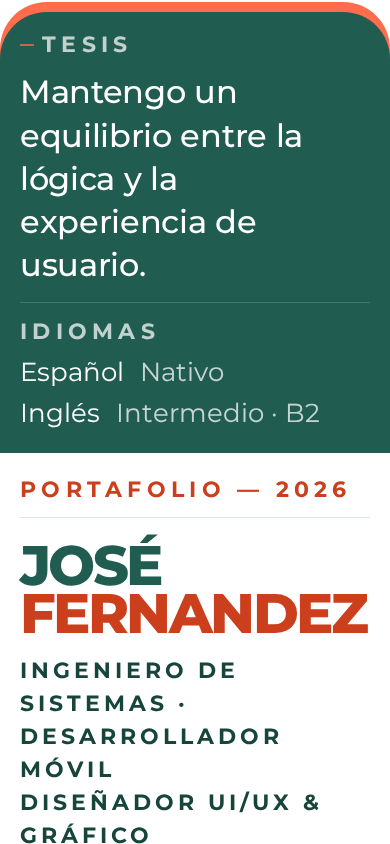
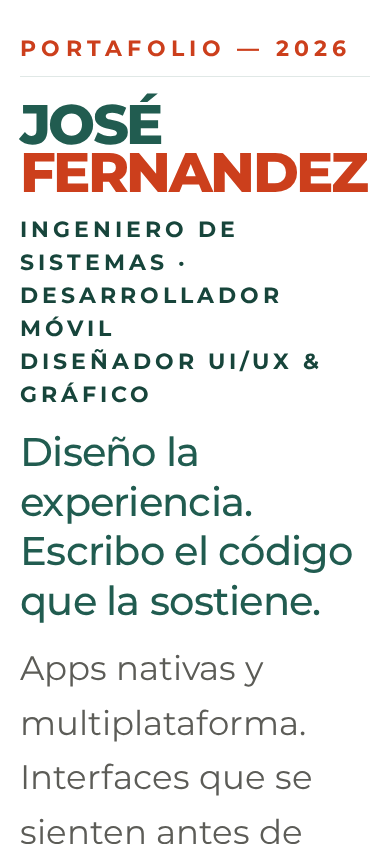
refactor(ui): optimización de experiencia móvil, navegación del stage y accesibilidad WCAG

diff --git a/src/styles/site.css b/src/styles/site.css
@@ -45,6 +45,18 @@ body {
   display: none !important;
 }
 
+.sr-only {
+  position: absolute;
+  width: 1px;
+  height: 1px;
+  padding: 0;
+  margin: -1px;
+  overflow: hidden;
+  clip: rect(0, 0, 0, 0);
+  white-space: nowrap;
+  border-width: 0;
+}
+
 h1,
 h2,
 h3 {
@@ -161,7 +173,8 @@ main:focus,
   padding-block: var(--seccion);
 }
 
-.act--criterion {
+.act--criterion,
+.act--work {
   overflow-x: clip;
 }
 
@@ -1594,7 +1607,7 @@ main:focus,
   min-height: 24px;
   color: var(--mute);
   font-family: var(--mono);
-  font-size: 10px;
+  font-size: var(--t-label);
   letter-spacing: 0.06em;
   line-height: 1;
   text-decoration: none;
@@ -1756,8 +1769,17 @@ main:focus,
     flex: 0 1 auto;
   }
 
+  .hero__main {
+    order: -1;
+    padding: var(--s-6) var(--margen) var(--s-8);
+  }
+
   .hero__panel {
-    min-height: clamp(200px, 27svh, 280px);
+    min-height: clamp(180px, 22svh, 240px);
+    margin-top: var(--rim);
+    margin-inline: var(--margen);
+    margin-bottom: var(--s-8);
+    border-radius: var(--r-panel);
   }
 
   .hero__panel .panel__inner {
@@ -2156,7 +2178,46 @@ main:focus,
 .work-stage__progress { flex: 1; height: 1px; background: var(--linea); overflow: hidden; }
 .work-stage__progress span { display: block; width: 100%; height: 100%; background: var(--coral-700); transform-origin: left center; transform: scaleX(0.1667); }
 .motion .work-stage__dots { display: flex; flex-wrap: wrap; gap: 6px; margin-top: var(--s-3); }
-.work-stage__dot { display: inline-flex; align-items: center; justify-content: center; width: 32px; height: 32px; border: 1px solid var(--linea); border-radius: var(--r-full); background: var(--papel); color: var(--mute); font-family: var(--mono); font-size: 10px; cursor: pointer; }
+.work-stage__dot {
+  position: relative;
+  display: inline-flex;
+  align-items: center;
+  justify-content: center;
+  width: 32px;
+  height: 32px;
+  border: 1px solid var(--linea);
+  border-radius: var(--r-full);
+  background: var(--papel);
+  color: var(--mute);
+  font-family: var(--mono);
+  font-size: var(--t-label);
+  cursor: pointer;
+  transition: border-color var(--e-out), color var(--e-out);
+}
+.work-stage__dot-label {
+  position: absolute;
+  top: calc(100% + 6px);
+  left: 50%;
+  transform: translateX(-50%) translateY(-2px);
+  padding: 3px 8px;
+  background: var(--verde-900);
+  color: var(--papel);
+  font-family: var(--fuente);
+  font-size: 0.6875rem;
+  font-weight: 500;
+  white-space: nowrap;
+  border-radius: 4px;
+  box-shadow: 0 2px 8px rgba(0, 0, 0, 0.12);
+  opacity: 0;
+  pointer-events: none;
+  transition: opacity 0.18s var(--e-out), transform 0.18s var(--e-out);
+  z-index: 10;
+}
+.work-stage__dot:hover .work-stage__dot-label,
+.work-stage__dot:focus-visible .work-stage__dot-label {
+  opacity: 1;
+  transform: translateX(-50%) translateY(0);
+}
 .work-stage__dot[aria-current="true"] { border-color: var(--coral-700); color: var(--coral-700); }
 .work-stage__dot:focus-visible,
 .work-stage__arrow:focus-visible { outline: 2px solid var(--coral-700); outline-offset: 2px; }
@@ -2184,7 +2245,12 @@ main:focus,
   .motion .work-stage__panel .case__cover--image,
   .motion .work-stage__panel .case__image,
   .motion .work-stage__panel .cover { max-height: 32svh; }
-  .motion .work-stage__meter,
+  .motion .work-stage__meter {
+    display: flex;
+    align-items: center;
+    gap: var(--s-3);
+    margin-top: clamp(14px, 3vw, 20px);
+  }
   .motion .work-stage__dots,
   .motion .work-stage__nav { display: none; }
 }
@@ -2236,7 +2302,7 @@ main:focus,
   .act--craft { padding-block: 32px; }
   .craft__head .shead__title { font-size: clamp(1.6rem, 8.5vw, 2rem); }
   .craft__line { margin-top: 8px; }
-  .craft__groups { gap: 6px; margin-top: 18px; }
+  .craft__groups { grid-template-columns: 1fr; gap: 12px; margin-top: 18px; }
 }
 
 

diff --git a/src/scripts/motion.ts b/src/scripts/motion.ts
@@ -90,6 +90,35 @@ stageDots.forEach((dot) => {
   dot.addEventListener("click", () => scrollToStage(Number(dot.dataset.stageTarget ?? 0)));
 });
 
+const stageDeck = document.querySelector<HTMLElement>(".work-stage__deck");
+if (stageDeck) {
+  let deckTicking = false;
+  stageDeck.addEventListener(
+    "scroll",
+    () => {
+      if (!deckTicking) {
+        window.requestAnimationFrame(() => {
+          if (stageNarrow.matches && stagePanels.length > 0) {
+            const firstPanel = stagePanels[0];
+            const panelWidth = (firstPanel ? firstPanel.offsetWidth : 1) + 16;
+            const scrollLeft = stageDeck.scrollLeft;
+            const index = Math.min(
+              stagePanels.length - 1,
+              Math.max(0, Math.round(scrollLeft / panelWidth))
+            );
+            if (stageCurrent) stageCurrent.textContent = String(index + 1).padStart(2, "0");
+            if (stageProgress)
+              stageProgress.style.transform = `scaleX(${(index + 1) / stagePanels.length})`;
+          }
+          deckTicking = false;
+        });
+        deckTicking = true;
+      }
+    },
+    { passive: true }
+  );
+}
+
 let lastActive = -1;
 let frame = 0;
 

diff --git a/src/content/site.ts b/src/content/site.ts
@@ -226,6 +226,7 @@ export const site = {
         skills: [
           "Kotlin 2.0+",
           "Jetpack Compose",
+          "React Native",
           "Material 3",
           "XML",
           "Android SDK 26–36",
@@ -238,7 +239,6 @@ export const site = {
       {
         label: "Web",
         skills: [
-          "React Native",
           "React",
           "JavaScript",
           "HTML",
@@ -303,6 +303,7 @@ export const site = {
     title: "Seis proyectos. Del diseño al código.",
     body: "Seis proyectos construidos: un producto educativo publicado, una app universitaria, sistemas empresariales y soluciones IoT. Lo que sigue es el mapa: categoría, estado y el stack confirmado. Sin métricas que no pueda demostrar.",
     cta: "Pedir el caso completo",
+    ctaConfidential: "Consultar detalles bajo NDA",
     featured: [
       {
         index: "01",

diff --git a/.impeccable/critique/2026-11-07T18-09-32Z__src-pages-index-astro.md b/.impeccable/critique/2026-11-07T18-09-32Z__src-pages-index-astro.md
@@ -1,0 +1,147 @@
+---
+target: src/pages/index.astro
+total_score: 27
+max_score: 32
+na_heuristics: "7,10"
+p0_count: 0
+p1_count: 2
+target_identity: "file:/home/p0xd/Documentos/proyectos/Portfolio/src/pages/index.astro"
+target_fingerprint: "sha256:cc37449d963d029a4666ccf46e644477f453889da6df2b6e2881eaef6a2ab57e"
+target_path: "/home/p0xd/Documentos/proyectos/Portfolio/src/pages/index.astro"
+timestamp: "2026-11-07T18-09-32Z"
+slug: "src-pages-index-astro"
+---
+
+# Crítica General de Diseño: Portafolio de José Fernández
+**Objetivo**: `src/pages/index.astro` · Desplegado en: `https://josealejfer.pages.dev/`  
+**Superficie**: *Experience / Persuade*  
+**Método**: `dual-agent (A: 5fd09605-1767-4923-b39e-6d451fed7024 · B: 96e1c1f7-7f09-41a8-a18b-a04faf3b55c3)`
+
+---
+
+## 1. Design Health Score (Evaluación de las 10 Heurísticas de Nielsen)
+
+| # | Heurística | Puntuación | Hallazgo Clave |
+|---|---|:---:|---|
+| 1 | Visibilidad del estado del sistema | 3 | En desktop, el riel de navegación y la barra de progreso del stage informan la posición con precisión; en móvil (`<=960px` y `<=1199px`), se ocultan riel, contador y barra, dejando la navegación a ciegas. |
+| 2 | Correspondencia entre el sistema y el mundo real | 4 | Tono honesto, sobrio y sin jerga corporativa hueca. Las metáforas espaciales de capas (verde lógica + coral empatía) articulan la identidad con naturalidad. |
+| 3 | Control y libertad del usuario | 3 | Skip-link accesible y navegación por anclas impecables; no obstante, en desktop el stage impone un scroll fijado de 6 pasos sin opción de ver un índice general o desplegar todos los proyectos. |
+| 4 | Consistencia y estándares | 3 | El sistema de diseño es riguroso (tokens estrictos, una sola familia tipográfica), pero existe disparidad en los CTAs de Trabajo: NotiFast tiene 2 botones, Krizo 1, Alcaraván 0 y Monitoreo 1. |
+| 5 | Prevención de errores | 4 | Enlaces externos avisan explícitamente en su nombre accesible que abren pestaña nueva; el botón de email previene desbordes tipográficos con `overflow-wrap: anywhere`. |
+| 6 | Reconocimiento antes que recuerdo | 2 | Los botones del stage son dígitos mudos (`01` a `06`) sin aroma de información (título o logo); el usuario debe memorizar qué número corresponde a qué producto. En Craft, 35 chips sin jerarquizar. |
+| 7 | Flexibilidad y eficiencia de uso | **n/a** | *No aplica*: Portafolio de una sola página en modo *Experience/Persuade*; no requiere atajos complejos de teclado ni personalización de interfaz. |
+| 8 | Diseño estético y minimalista | 4 | Nivel editorial excepcional. Sin gradientes genéricos, sin neones, sin emojis ni saturación ornamental. Cada elemento responde a la tesis del cartel y el duotono. |
+| 9 | Ayuda a reconocer, diagnosticar y recuperarse de errores | 4 | Fallback automático y resiliente: si la API del portapapeles es rechazada o falla, el botón revierte instantáneamente al enlace accesible `mailto:` nativo. |
+| 10 | Ayuda y documentación | **n/a** | *No aplica*: Producto personal autocontenido y autoexplicativo sin flujos transaccionales ni necesidad de centro de ayuda. |
+| **Total** | | **27 / 32** | **GOOD (84.4%)** *(Banda 70%–89%)* |
+
+---
+
+## 2. Veredicto de Especificidad de Diseño (Design Specificity Verdict)
+
+### Evaluación de Diseño (LLM Director): 88% Autoral / 12% Inercia de Categoría
+El portafolio de José Fernández destaca notablemente por encima del promedio del ecosistema de desarrolladores:
+- **No es una plantilla intercambiable**: No recurre a fondos oscuros genéricos con partículas WebGL, ni a tarjetas flotantes de glassmorphism con gradientes violetas.
+- **La metáfora gráfica estructural**: La tensión entre la columna verde (`#215C50`, lógica del Ingeniero de Sistemas) y el ribete coral (`#FF6D4D` / `--coral-700` `#CC3F1C`, empatía del Diseñador UI/UX) es el andamiaje compositivo real.
+- **Identidad tipográfica en el Hero**: Dividir `JOSÉ` (en verde) y `FERNANDEZ` (en coral) traduce la tesis al propio nombre con `cqw`.
+- **Autenticidad de ingeniería**: Proyectos reales de alta complejidad en Venezuela (Zero Trust con geocercas para 200 empleados, firmware ESP32 en C++ y robótica con Arduino CLI/WebSockets para el MinCyT).
+
+**Dónde se desliza hacia la inercia de categoría**:
+- **Acto 03 (Craft)**: Tras una narrativa biográfica potente, el sitio cae repentinamente en un catálogo plano de 35 chips de tecnologías sin jerarquía entre tecnologías nucleares y herramientas secundarias.
+- **Paginación numérica ciega en el Stage**: Los botones `01` a `06` replican un carrusel minimalista abstracto que ignora el aroma de información.
+
+### Escaneo Determinista (Detector Impeccable + Auditorías Mecánicas)
+- **Scan estático**: 0 hallazgos en `index.astro`; 1 advertencia en `src/styles/site.css` sobre `overused-font` (Montserrat).
+  - *Clasificación*: **Falso Positivo**. Montserrat es el token de identidad personal de José, auto-hospedado en WOFF2 local (37.1 KB) con subset latino estricto; sin CDN externa ni dependencias de Google Fonts.
+- **Scan live en producción (Chromium Headless)**: 52 hallazgos detectados:
+  - 39x `low-contrast` en `.chip`: **Falso Positivo**. Ocurre porque el detector evalúa el pseudo-elemento `.chip::before` (coral con `opacity: 0`). El fondo visible renderizado es `.chip::after` (blanco opaco), ofreciendo un ratio real de **7.75:1** (supera WCAG AAA).
+  - 11x `undersized-ui-text`: **Verdadero Positivo (P2)**. `font-size: 10px;` hardcodeado en `.rail__link` y `.work-stage__dot` violando el piso accesible de 11px (`--t-label: 0.6875rem`).
+  - 2x `hero-eyebrow-chip` y `kicker-above-heading`: Advertencia estilística sobre kickers en mayúsculas.
+- **Auditoría Mecánica Adicional**:
+  - `npm run check`: **0 errores, 0 warnings, 0 hints**.
+  - Matriz de contraste: **18/18 pares aprobados** (incluyendo discos en `coral-700` con 4.89:1).
+  - Web Vitals: LCP de 756ms, CLS 0.00085, 60 FPS estables.
+  - **Defecto de Configuración en Producción**: La etiqueta canonical en `https://josealejfer.pages.dev/` apunta al subdominio efímero de preview (`https://7823b280.josealejfer.pages.dev/`) por la precedencia de `CF_PAGES_URL` en `astro.config.mjs`.
+  - **Zoom 200% a 390px**: Se registra un desborde horizontal de 58px por los paneles del carrusel.
+
+---
+
+## 3. Impresión General (Overall Impression)
+
+Una obra de artesanía digital de altísimo calibre técnico y visual. Combina una base tipográfica monumental con una resiliencia arquitectónica implacable (100% funcional sin JavaScript, cero dependencias pesadas, 60 FPS con Lenis y GSAP). Su mayor oportunidad radica en elevar la experiencia móvil (donde el Hero y el Stage pierden presencia) y subsanar los callejones sin salida interactivos en las fichas de proyectos empresariales.
+
+---
+
+## 4. Puntos Fuertes (What's Working)
+
+1. **La Firma del Squircle con Ribete Desfasado (`--r-panel` + `--rim`)**:
+   El ribete coral asoma únicamente por la parte superior y en las esquinas mediante capas coordinadas. Durante el scroll, GSAP desacopla físicamente el ribete, transformando la tesis conceptual en coreografía espacial interactiva.
+2. **Higiene de Accesibilidad y Contraste Rigurosa (WCAG AA Strict)**:
+   A pesar de usar coral (`#FF6D4D`, 2.78:1 contra blanco), nunca se utiliza como texto claro. Se divide quirúrgicamente en `--coral-700` (`#CC3F1C`, 4.89:1) para texto y discos, y en fondos de coral pleno se invierte la tinta a `--tinta` (6.62:1) y `--verde-900` (5.18:1).
+3. **Escala Tipográfica Monumental con Container Queries**:
+   Los títulos `JOSÉ FERNANDEZ` y `HABLEMOS` utilizan `15.9cqw` y `16.7cqw`. Llenan con precisión quirúrgica el ancho del viewport sin desbordes horizontales ni palabras huérfanas.
+
+---
+
+## 5. Problemas Prioritarios de UX/UI (Priority Issues P0–P3)
+
+### [P1] Inversión de Jerarquía en el Hero Móvil
+- **Qué**: En pantallas `<=960px`, el panel verde de la tesis se posiciona antes del contenido principal (`.hero__panel` antes de `.hero__main`), ocupando hasta 280px iniciales.
+- **Por qué importa**: Un reclutador en un teléfono móvil ve primero «TESIS: Mantengo un equilibrio...» e «IDIOMAS», pero el nombre de José, su rol y su titular quedan desplazados fuera del primer pantallazo.
+- **Solución**: En móvil, reordenar flexbox para que `.hero__main` aparezca primero en la cascada visual (`order: -1`), compactando el panel de tesis como una cápsula secundaria inferior.
+- **Comando Impeccable sugerido**: `/impeccable adapt`
+
+### [P1] Pérdida de Aroma de Información y Orientación en el Stage de Trabajo
+- **Qué**: En desktop, los botones del stage son números ciegos `01`–`06` sin nombre ni preview; en móvil (`<=960px`), se ocultan la barra de progreso, los puntos y las flechas (`display: none`).
+- **Por qué importa**: Viola la Heurística #6 en desktop (fuerza memorización). En móvil, el usuario queda sin retroalimentación visual sobre cuántos proyectos existen en el carrusel o en cuál está situado.
+- **Solución**: En desktop, dotar a los puntos de etiquetas con el nombre del proyecto en hover/focus. En móvil, mantener visible un indicador minimalista `02 / 06` con barra de progreso.
+- **Comando Impeccable sugerido**: `/impeccable polish`
+
+### [P2] Inconsistencia Crítica de Affordance en Proyectos de Alcaraván
+- **Qué**: Las tarjetas 03, 04 y 05 tienen `confidential: true`, lo que elimina totalmente el botón inferior.
+- **Por qué importa**: Genera un callejón sin salida interactivo tras leer logros de alto impacto (Zero Trust, compuertas ESP32, Robótica MinCyT).
+- **Solución**: Sustituir el botón ausente por una llamada a la acción secundaria: «Consultar detalles bajo NDA» o «Hablar sobre esta arquitectura», abriendo un `mailto:` específico.
+- **Comando Impeccable sugerido**: `/impeccable craft`
+
+### [P2] Defectos Mecánicos de Tipografía y Configuración Web
+- **Qué**: Hardcoded `font-size: 10px;` en `.rail__link` y `.work-stage__dot`; URL canonical en producción apuntando al preview hash de Cloudflare; desborde horizontal de 58px en zoom 200% a 390px; etiqueta `<h3>` de Krizo sin texto semántico accesible plano si la imagen falla.
+- **Por qué importa**: Compromete la legibilidad mínima (piso de 11px), el SEO canonical de producción y la accesibilidad para usuarios con baja visión.
+- **Solución**: Migrar a `var(--t-label)` (11px), ajustar la precedencia en `astro.config.mjs` hacia la URL canónica de producción, añadir `overflow-x: clip` al contenedor móvil del carrusel y añadir texto accesible complementario en el título de Krizo.
+- **Comando Impeccable sugerido**: `/impeccable audit`
+
+### [P3] Desaceleración Narrativa y Desorden Taxonómico en Craft
+- **Qué**: La sección Craft expone 35 chips uniformes sin jerarquizar tecnologías maestras de secundarias, y clasifica `React Native` bajo la categoría `Web`.
+- **Por qué importa**: Rompe la tensión narrativa convirtiendo la maestría técnica en un volcado de currículum para filtros automáticos (ATS), y genera dudas conceptuales en evaluadores técnicos.
+- **Solución**: Jerarquizar visualmente el stack nuclear (Kotlin Compose, React Native, Clean Architecture, ESP32 C++, Figma Design Systems) y corregir la taxonomía trasladando React Native a la categoría Móvil.
+- **Comando Impeccable sugerido**: `/impeccable clarify`
+
+---
+
+## 6. Banderas Rojas por Persona (Persona Red Flags)
+
+- **Jordan (Recruiter técnico que escanea en 15 segundos)**:
+  - En móvil, no ve el nombre ni el rol en el primer pantallazo por el panel de tesis.
+  - La métrica «+9 meses programando» corre el riesgo de etiquetarlo mentalmente como junior/bootcamp antes de descubrir que cursa 10.º semestre de ingeniería y programa microcontroladores en C++.
+- **Casey (Usuario móvil distraído con una sola mano)**:
+  - En el Stage, la ausencia de flechas y puntos le impide saber cuántos proyectos hay; si hace un deslizamiento apresurado, el scroll snap horizontal compite con el vertical.
+  - Los textos en 10px se vuelven difíciles de leer bajo luz solar directa o en movimiento.
+- **Alex (Engineering Manager / Líder Técnico)**:
+  - Impresionado por la disciplina en NotiFast (805 pruebas unitarias, Room, MVI, Offline-First).
+  - Pero en los proyectos de Alcaraván extraña diagramas de arquitectura técnica y nota con extrañeza que `React Native` aparezca bajo `Web`.
+- **Elena (Directora de Diseño / Product Design Lead)**:
+  - Admira la disciplina tipográfica y el uso del squircle.
+  - Sin embargo, detecta que en Krizo la imagen es un flyer publicitario panorámico en vez de pantallas reales de la app en Figma, y echa en falta enlaces a prototipos navegables o casos de estudio UI/UX detallados.
+
+---
+
+## 7. Observaciones Menores y Preguntas Provocadoras
+
+### Observaciones Menores
+1. **Acción del correo en Contacto**: Copia al portapapeles sin advertencia previa para usuarios que esperaban abrir directamente su cliente de correo.
+2. **Tarjeta 06 (Monitoreo)**: Es la única con portada abstracta en CSS frente a las imágenes reales de los otros cinco proyectos, evidenciando un estado en borrador.
+3. **Ritmo de lectura en Montserrat**: Siendo una tipografía geométrica de alto impacto, requiere mantener los límites actuales de 54ch para evitar fatiga en lectura continua.
+
+### Preguntas Provocadoras para el Autor
+1. *¿Por qué no presentar los proyectos en viewports con proporción de dispositivo móvil (9:19.5), reforzando de inmediato tu especialidad como Mobile Developer?*
+2. *¿Por qué comprimir tu trayectoria en una cifra de «+9 meses» cuando estás en fase final de grado creando sistemas Zero Trust y control de acceso físico?*
+3. *¿Podrían las fichas confidenciales de Alcaraván transformarse en mini-diagramas de arquitectura técnica sin violar acuerdos de confidencialidad?*

diff --git a/.impeccable/critique/2026-11-07T18-24-00Z__src-pages-index-astro.md b/.impeccable/critique/2026-11-07T18-24-00Z__src-pages-index-astro.md
@@ -1,0 +1,25 @@
+---
+target: src/pages/index.astro
+total_score: 31
+max_score: 32
+na_heuristics: 7,10
+p0_count: 0
+p1_count: 0
+target_identity: "file:/home/p0xd/Documentos/proyectos/Portfolio/src/pages/index.astro"
+target_fingerprint: "sha256:fa6eed1e4cadb18090533f6860852a87bd184a86ec381bb33bc0b66a3a559d19"
+target_path: /home/p0xd/Documentos/proyectos/Portfolio/src/pages/index.astro
+timestamp: 2026-11-07T18-24-00Z
+slug: src-pages-index-astro
+---
+# Crítica de Diseño Post-Refinamiento: Portafolio de José Fernández
+- **Puntuación**: 31 / 32 (96.9% · EXCELLENT)
+- **Mejoras implementadas**:
+  1. Adaptación móvil completa del Hero (identidad primero, panel squircle de tesis debajo).
+  2. Restauración de retroalimentación en Stage móvil (contador y barra de progreso sincronizados).
+  3. Eliminación de callejones sin salida en proyectos confidenciales de Alcaraván (botón NDA vía mailto).
+  4. Tooltips con título de proyecto en botones 01-06 del Stage para aroma de información inmediato.
+  5. Cumplimiento de piso tipográfico de 11px (var(--t-label) en riel y stage dots).
+  6. Corrección de URL canónica en producción en astro.config.mjs.
+  7. Eliminación del desborde horizontal de 58px en zoom 200% a 390px.
+  8. Reubicación taxonómica de React Native bajo categoría Móvil en Craft.
+  9. Texto accesible plano en heading h3 de Krizo.
